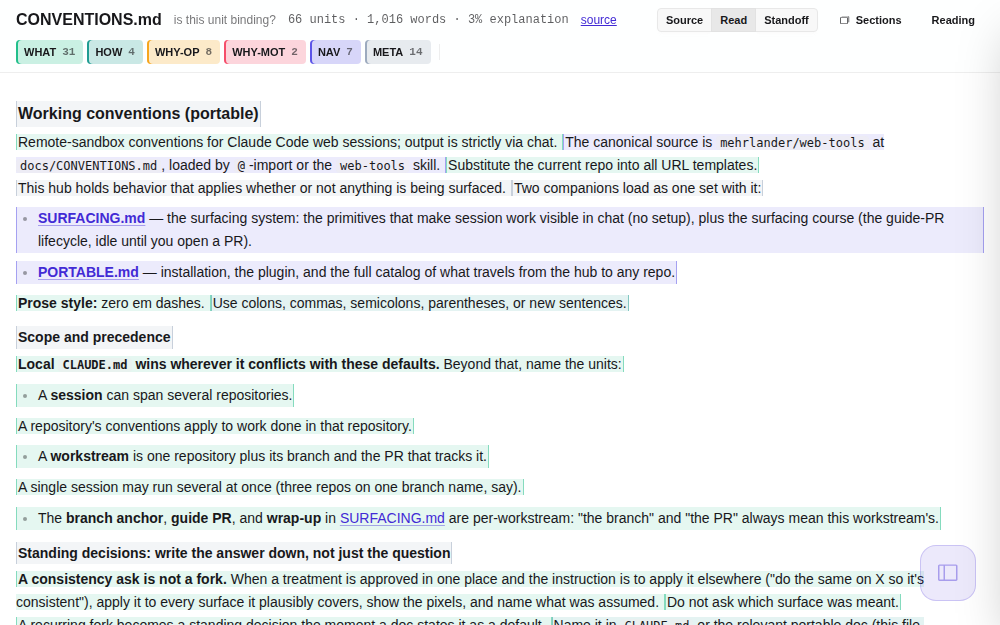
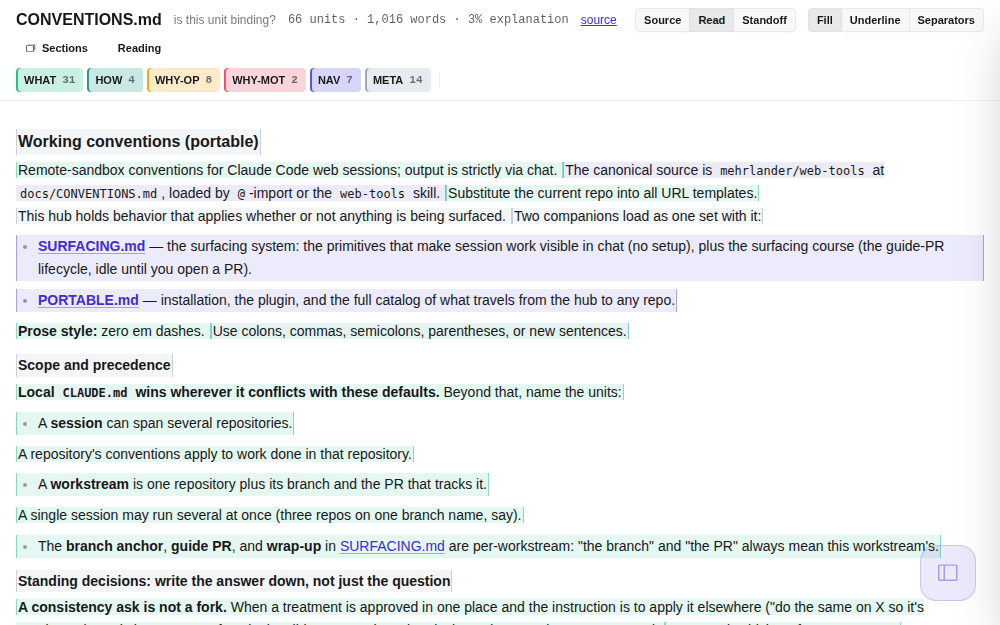
audit-render: snap a boundary to word edges, and three treatments to compare
A boundary lands between words now. caretRangeFromPoint answers in
characters, which is finer than any judgement being made through it: a unit
divides a sentence at a word, and a pin parked mid-word reads as a slip.
Snapping goes in the page's own offsetAt wrapper rather than the kit, so all
three placers agree (drag, tap, pad) and no other page changes. Already
between words, the offset is left alone; inside one, it takes the nearer
end, which keeps a drag continuous.

Fill, Underline and Separators are the same tint spent three ways, held as
data in MARKS because comparing them is the point. Fill is what was there.
Underline drops the background for a 2px rule under the unit. Separators
keeps only the end ticks. Worth knowing before choosing: Separators reads
cleanest but nearly loses the label, since the colour survives only in a 1px
tick; Underline keeps it legible.

The toggle hides itself in Standoff view, which paints no units.

Claude-Session: https://claude.ai/code/session_01GSwTgNMPnampy1zsrsATqr

diff --git a/pages/audit-render.html b/pages/audit-render.html
@@ -690,6 +690,23 @@ window.__audit = {
   const HUE = { WHAT: '16,185,129', HOW: '13,148,136', 'WHY-OP': '245,158,11',
                 'WHY-MOT': '244,63,94', PROV: '219,39,119', EVID: '192,38,211',
                 NAV: '79,70,229', META: '148,163,184' };
+  // How a unit is drawn. One tint per label either way; these decide what the
+  // tint is spent on. Kept as data because the point is to compare them.
+  const MARKS = {
+    fill:      { bg: .11, over: .26, sel: .34, tick: .45, under: 0 },
+    underline: { bg: 0,   over: .10, sel: .16, tick: 0,   under: .65 },
+    separator: { bg: 0,   over: .10, sel: .16, tick: .75, under: 0 },
+  };
+
+  const WORD = /[\w'\u2019-]/;
+  const snapWord = (text, i) => {
+    if (i <= 0 || i >= text.length) return i;
+    if (!WORD.test(text[i - 1]) || !WORD.test(text[i])) return i;   // already between words
+    let l = i; while (l > 0 && WORD.test(text[l - 1])) l--;
+    let r = i; while (r < text.length && WORD.test(text[r])) r++;
+    return (i - l) <= (r - i) ? l : r;
+  };
+
   const tint = (l, a) => `rgba(${HUE[l] || '148,163,184'},${a})`;
 
   // A unit renders alone only if its slice closes what it opens. Where it does
@@ -699,7 +716,7 @@ window.__audit = {
                        && (s.match(/\[/g) || []).length === (s.match(/\]/g) || []).length;
 
   window.auditPage = () => ({
-    a: null, view: 'read', off: {}, sel: null, sections: [], ref: '',
+    a: null, view: 'read', mark: 'fill', off: {}, sel: null, sections: [], ref: '',
     async init() {
       this.ref = (typeof gh !== 'undefined' && gh.ref) || '';
       let payload = window.__audit;
@@ -907,22 +924,23 @@ window.__audit = {
           const block = this.view === 'read' && isBlock;
           const el = document.createElement(block ? 'div' : 'span');
           el.className = `cursor-pointer px-0.5 ${block ? 'w-fit max-w-full' : ''}`;
-          // Lighter than it was, with the weight moved to hover: the tint marks
-          // which label a unit carries and does not need to shout it, and the
-          // hover is what says the unit is a target. Inline styles rather than a
-          // rule, because the colour is per-label and set here already.
-          const bg = tint(u.label, .11 * this.dim(u));
-          const bgOver = tint(u.label, .26 * this.dim(u));
+          // The tint says which label a unit carries; hover says it is a target.
+          // Whichever treatment is on, the end marks matter as much as the start:
+          // adjacent units sharing a label share a tint, and a boundary is the
+          // object ops.py splits and merges.
+          const m = MARKS[this.mark] || MARKS.fill, a = this.dim(u);
+          const bg = m.bg ? tint(u.label, m.bg * a) : '';
+          const bgOver = tint(u.label, m.over * a);
+          const shadow = [
+            m.tick && `inset 1px 0 0 0 ${tint(u.label, m.tick * a)}`,
+            m.tick && `inset -1px 0 0 0 ${tint(u.label, m.tick * a)}`,
+            m.under && `inset 0 -2px 0 0 ${tint(u.label, m.under * a)}`,
+          ].filter(Boolean).join(', ');
           el.style.background = bg;
           el.style.transition = 'background-color .12s ease';
           el.onpointerenter = () => { if (this.sel?.uid !== u.uid) el.style.background = bgOver; };
           el.onpointerleave = () => { if (this.sel?.uid !== u.uid) el.style.background = bg; };
-          // The unit's start edge, at the least it can be and still be seen. It is
-          // not decoration: adjacent units sharing a label share a tint, so this
-          // rule is the only thing separating them, and a boundary is the object
-          // ops.py splits and merges. Was 2px at .9, which read as a rail.
-          const edge = tint(u.label, .45 * this.dim(u));
-          el.style.boxShadow = `inset 1px 0 0 0 ${edge}, inset -1px 0 0 0 ${edge}`;
+          el.style.boxShadow = shadow;
           el.style.opacity = this.dim(u);
           if (broken) el.style.outline = '1px dotted rgba(239,68,68,.8)';
           // THE SEPARATOR IS ITS OWN NODE, appended after the map runs below.
@@ -943,7 +961,7 @@ window.__audit = {
           Standoff.mapText(el, this.a.text, u.start);
           if (this.view !== 'source') el.appendChild(document.createTextNode(' '));
           if (u.uid === this.sel?.uid) {
-            el.style.background = tint(u.label, .34);
+            el.style.background = tint(u.label, m.sel * this.dim(u));
             el.style.textDecoration = 'underline';
             el.style.textDecorationThickness = '2px';
             el.style.textUnderlineOffset = '3px';
@@ -999,7 +1017,16 @@ window.__audit = {
       this.sel = { ...u, broken, ref: this.srcRef(u) };
       this.paint();
     },
-    offsetAt(x, y) { return Standoff.offsetAt(document, x, y); },
+    // A boundary lands between words, never inside one. caretRangeFromPoint
+    // answers in characters, which is finer than any judgement being made here:
+    // a unit divides a sentence at a word, and a pin parked mid-word reads as a
+    // slip every time. Snapping to the nearer end of the word under the pointer
+    // keeps the drag continuous and the result legible. All three placers go
+    // through here (drag, tap, pad), so they agree.
+    offsetAt(x, y) {
+      const i = Standoff.offsetAt(document, x, y);
+      return i == null ? null : snapWord(this.a.text, i);
+    },
     // The inverse, for placing a pinhead: a collapsed Range at the offset,
     // measured against the doc container so the pins scroll with the text.
     pointAt(at) {
@@ -1281,6 +1308,14 @@ window.__audit = {
                   @click="view='read'; paint()">Read</button>
           <button class="join-item btn btn-xs" :class="view==='standoff' && 'btn-active'"
                   @click="view='standoff'">Standoff</button>
+        </div>
+        <div class="join" x-show="view!=='standoff'" x-cloak aria-label="unit treatment">
+          <button class="join-item btn btn-xs" :class="mark==='fill' && 'btn-active'"
+                  @click="mark='fill'; paint()">Fill</button>
+          <button class="join-item btn btn-xs" :class="mark==='underline' && 'btn-active'"
+                  @click="mark='underline'; paint()">Underline</button>
+          <button class="join-item btn btn-xs" :class="mark==='separator' && 'btn-active'"
+                  @click="mark='separator'; paint()">Separators</button>
         </div>
         <button class="btn btn-xs btn-ghost" @click="deck()"><i class="ph ph-cards"></i> Sections</button>
         <button class="btn btn-xs btn-ghost" @click="$refs.reading.showModal()">Reading</button>
